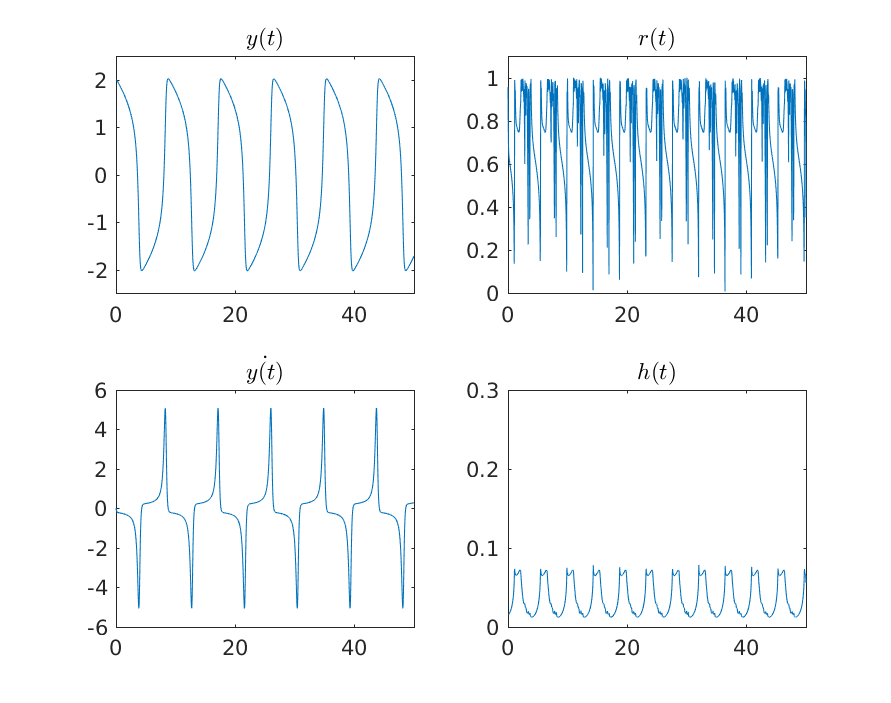
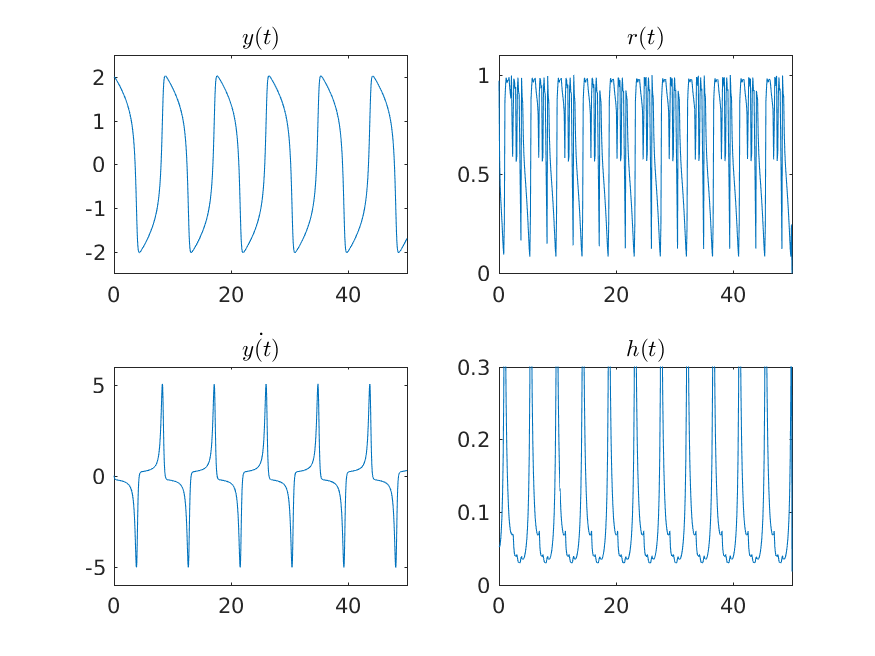
last update

diff --git a/assignment1/Ex4/ClassicalRungeKutta_AdaptiveStep.m b/assignment1/Ex4/ClassicalRungeKutta_AdaptiveStep.m
@@ -111,22 +111,22 @@ while Ts(end) < tspan(2)
         
         % Update yhat
         yhat = ym + hm*(1/6*Fm(:,1) + 1/3*Fm(:,2) + 1/3*Fm(:,3) + 1/6*Fm(:,4));
-        
+       
         % Error estimation
         e = y1 - yhat;
-        r = max(abs(e)./max(abstol,abs(yhat).*reltol));
-        
+        r = max(abs(e)./max(abstol,abs(yhat).*reltol));        
         % Check condition
         AcceptStep = r <=1;
 
         % step size controller (Asymptotic or second order PI)
         hn = max(facmin,min((epstol/r)^ki*(rp/r)^kp,facmax))*h;
         rp = r;
-        hvec(end+1) = h;
-        rvec(end+1) = r;
         funeval = funeval + 10;
     end
     % Store solution
+    
+    hvec(end+1) = h;
+    rvec(end+1) = r;
     t = t + h;
     y = yhat;
     Ts(end+1) = t;

diff --git a/assignment1/Ex4/exercise4.m b/assignment1/Ex4/exercise4.m
@@ -6,8 +6,8 @@ n = 1;
 y0 = [2; 0];
 mu = 3;
 
-abstol = 1e-8;
-reltol = 1e-8;
+abstol = 1e-3;
+reltol = 1e-3;
 
 %% Explicit Euler Adaptive Step
 [T1,Y1,info1] = ExplicitEuler_AdaptiveStep(...
@@ -22,12 +22,12 @@ reltol = 1e-8;
 %% Trapezoidal Adaptive Step
 [T3,Y3,info3] = Trapezoidal_AdaptiveStep(...
           @VanderPolfunjac,tspan,n,y0,abstol,reltol,'PI',mu);
-%AdaptiveStepPlot(T3,Y3,info3)
+AdaptiveStepPlot(T3,Y3,info3)
 
 %% Classical Runge-Kutta 
 [T4,Y4,info4] = ClassicalRungeKutta_AdaptiveStep( ... 
           @VanderPolfunjac,tspan,n,y0,abstol,reltol,'PI',mu);
-%AdaptiveStepPlot(T4,Y4,info4)
+AdaptiveStepPlot(T4,Y4,info4)
 
 %% DOPRI54     
 butcher = ERKSolverErrorEstimationParameters('DOPRI54');

diff --git a/assignment1/Ex4/ExplicitRungeKutta.m b/assignment1/Ex4/ExplicitRungeKutta.m
@@ -43,8 +43,8 @@ for i = 1:n
     % Following stages
     for j = 2:s
         T(j) = t + hc(j);
-        Y(:,j) = y + F(:,j-1)*hAT(1:j-1,j);
-        F(:,j) = feval(fun,T(j),Y(:,j),varagin{:});
+        Y(:,j) = y + F(:,1:j-1)*hAT(1:j-1,j);
+        F(:,j) = feval(fun,T(j),Y(:,j),varargin{:});
     end
     
     % Update t and y and calulate the error with the embeded method

diff --git a/assignment1/Ex4/Trapezoidal_AdaptiveStep.m b/assignment1/Ex4/Trapezoidal_AdaptiveStep.m
@@ -79,11 +79,11 @@ while T(end) < tspan(2)
         % step size controller (Asymptotic or second order PI)
         hn = max(facmin,min((epstol/r)^ki*(rp/r)^kp,facmax))*h;
         rp = r;
-        hvec(end+1) = h;
-        rvec(end+1) = r;
     
     end
     
+    hvec(end+1) = h;
+    rvec(end+1) = r;
     T(end+1) = T(end)+h;    
     Y(:,end+1) = Yhat;
     
